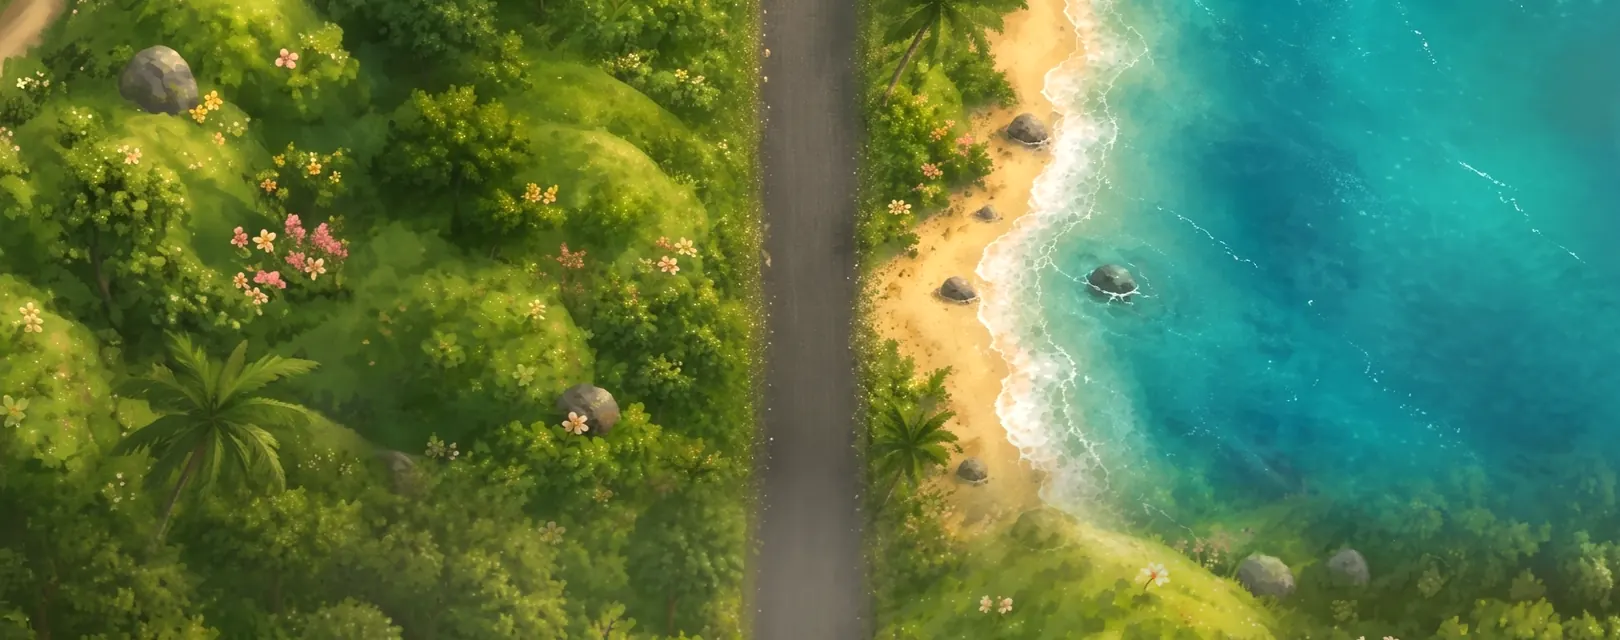
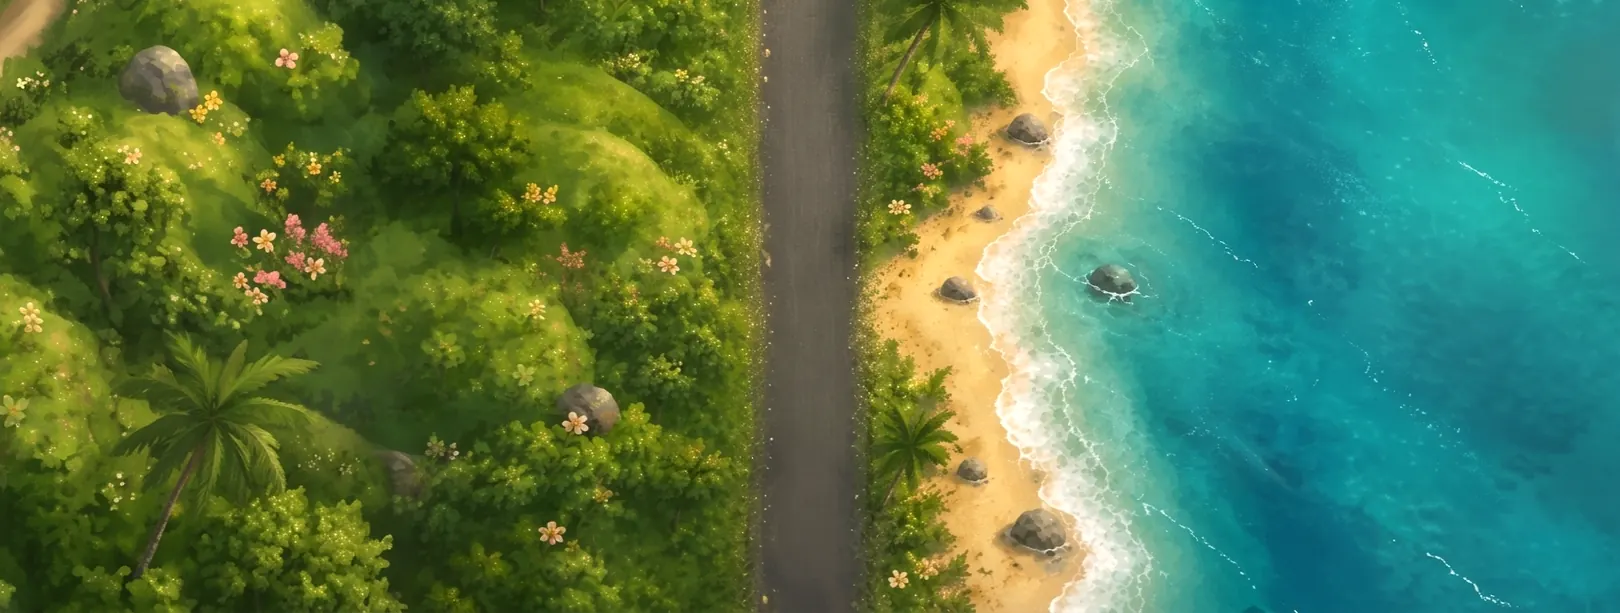
Remove the closing garden bushes; keep out_width as an override
Journey now ends at the beach - no closing garden segment.

Tried rendering the beach at its full native width (2549px vs the
1620px cap set by the garden plates) via an explicit out_width
override, but that visibly streaked the garden segments' edges since
they'd need to stretch ~57% past their real content. Reverted to
out_width: 0 (auto, safe narrowest-plate width) - the beach stays
capped at 1620px like everything else, no streaking anywhere.

Kept the out_width override capability in build-ribbon.py itself
(now respected exactly rather than always clamped to the narrowest
plate) since it's a real, working option for a future manifest where
only one wide plate needs it and nothing narrower has to coexist.

diff --git a/tools/build-ribbon.py b/tools/build-ribbon.py
@@ -284,15 +284,17 @@ def main():
         print(f"  {os.path.basename(s['src'])[:26]:26s}{rows:16s} {im.size[0]}x{im.size[1]}"
               f"  road {med:5.1f}px  field {avail / ROAD_W:5.2f} road-widths  x{scale:.3f}")
 
-    # The frame is as wide as the narrowest plate can actually cover. Widening past
-    # that would mean inventing pixels at the edges, which reads as horizontal
-    # streaking down the side of the scene.
+    # The frame is as wide as the narrowest plate can actually cover, unless the
+    # manifest sets an explicit out_width — then that's respected as-is, even past
+    # what the narrowest plate covers. Widening past a plate's own field means its
+    # edges repeat outward (see render()), which reads as a soft edge rather than an
+    # obviously invented one as long as the plate is a minority of the ribbon's rows.
     avail = min(m[4] for m in meas.values())
-    OUT_W = int(min(OUT_W, avail) if OUT_W else avail) // 2 * 2
+    OUT_W = int(OUT_W) // 2 * 2 if OUT_W else int(avail) // 2 * 2
     widest = max(m[4] for m in meas.values())
-    if avail < widest * 0.9:
-        print(f"  ! narrowest plate covers {avail:.0f}px vs {widest:.0f}px — "
-              f"the frame is being cropped to suit it")
+    if avail < OUT_W * 0.9:
+        print(f"  ! narrowest plate covers {avail:.0f}px vs frame {OUT_W:.0f}px — "
+              f"its edges will repeat outward to fill the frame")
     print(f"  frame width {OUT_W}px")
 
     cache, plates = {}, []
